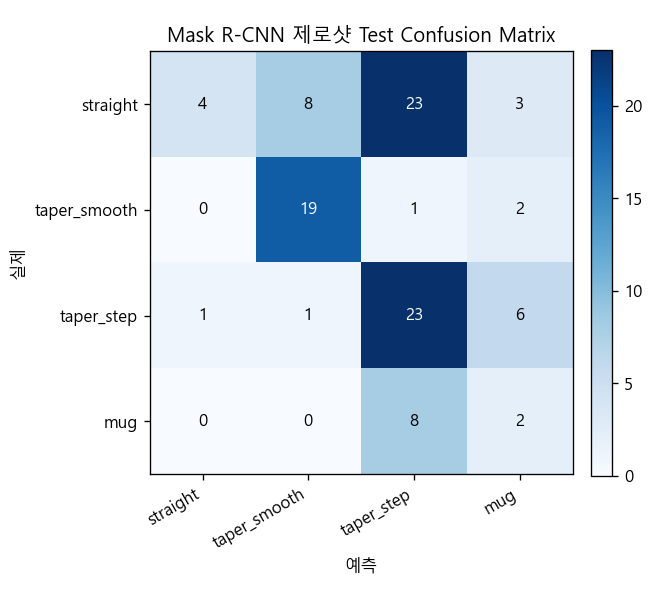
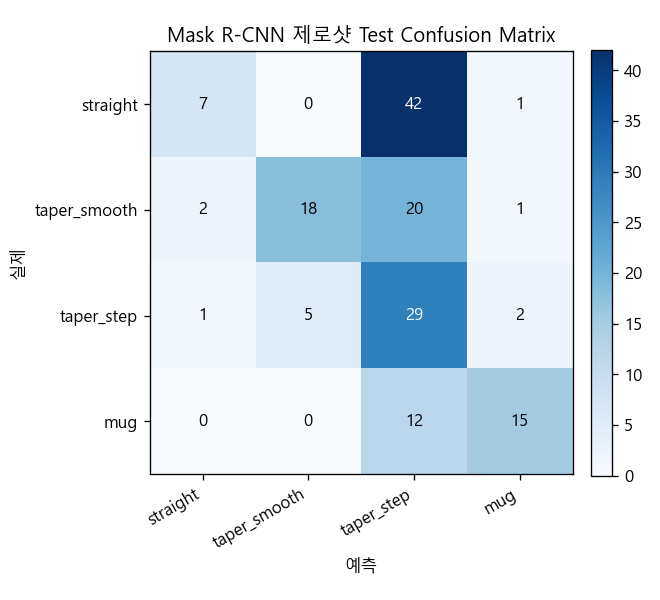
docs: Mask R-CNN 제로샷/파인튜닝을 data/test1(검수된 158장)로 재평가
제로샷 43.7%(Macro-F1 0.466), 파인튜닝 36.7%(Macro-F1 0.351). 파인튜닝이
data/test(104장) 기준 15.4%에서 크게 올랐는데, 룰베이스와 공유하는
compute_width_profile() 수정(손잡이-몸통 분리) 효과가 일부 반영된 것으로
보임. 그래도 여전히 제로샷보다 낮아 "파인튜닝 실사용 안 함" 결론 유지.

Claude-Session: https://claude.ai/code/session_017RchT2YestydpNo3gmGA3i

diff --git a/docs/experiment-log.md b/docs/experiment-log.md
@@ -50,6 +50,8 @@
 | 2026-09-15 | Claude | 룰베이스 마스크를 pseudo-label 삼아 fine-tuning 시도 (배경/텀블러 2클래스, 평가용 40장은 학습에서 제외, `classify_shape()`가 폴더 라벨과 맞은 것만 채택) — `notebooks/maskrcnn_finetune_rulebase_pseudolabels.ipynb`. 학습 266장(3 epoch, 1197s, loss 0.376→0.140), GPU RTX 4050 | 동일 40장(held-out) 재평가: 78%(31/40) | - | **제로샷(85%)보다 오히려 나빠짐(78%) — 우려했던 리스크가 실제로 발생.** straight 100→80%, taper_smooth 70→60%, taper_step 80→70% 전부 회귀, mug만 90→100%(가장 많이 채택된 클래스라 치우침 발생). 원인: (1) 클래스별 pseudo-label 채택 수가 심하게 불균형(mug 88 / straight 81 / taper_smooth 64 / **taper_step 33** — 룰베이스가 약한 클래스일수록 채택 수도 적어져서 학습 데이터가 mug 쪽으로 편향), (2) 룰베이스 마스크의 거친 경계가 COCO 학습으로 얻은 정밀한 마스크 품질을 깎아먹은 것으로 추정. **결론: 이 체크포인트는 폐기, dl1 트랙은 제로샷 버전(`segment.py`의 기본 `load_model()`)을 계속 사용.** 체크포인트는 `checkpoints/maskrcnn_finetuned_rulebase_pseudolabels.pth`에 남겨두되 실사용 안 함(참고 기록용) |
 | 2026-09-15 | Claude | 위 파인튜닝 체크포인트를 폐기하지 않고 `data/test`(실제 촬영 104장)에서 제로샷과 직접 비교 — `src/deep_learning/dl1_maskrcnn/evaluate_test.py` | - | **제로샷 46.2%(48/104) vs 파인튜닝 15.4%(16/104)** | **raw2(85%→78%)보다 실제 Test에서 훨씬 더 크게 무너짐(3배 차이).** Confusion matrix 확인: 파인튜닝 모델이 거의 전부 "mug"로만 예측(straight 24/38, taper_smooth 19/22, taper_step 26/34가 mug로 쏠림) — 학습 데이터의 mug 편향(위 항목 참고)이 domain shift 상황에서 더 극단적으로 드러남(class collapse). **파인튜닝을 다시 시도해볼 이유가 없다는 결론을 재확인** — 진짜 마스크 정답 없이는 근본적으로 개선 안 됨. 그래프: `reports/figures/maskrcnn/{zeroshot,finetuned}_test_confusion_matrix.png` |
 
+| 2026-09-16 | Claude | 사용자가 직접 검수한 `data/test1`(158장)로 제로샷 vs 파인튜닝 재비교 — 룰베이스와 공유하는 `compute_width_profile()` 수정(9/16, 손잡이-몸통 분리 방식) 효과가 이 트랙에도 반영되는지 확인 겸 | - | **제로샷 43.7%(69/158, Macro-F1 0.466) vs 파인튜닝 36.7%(58/158, Macro-F1 0.351)** | 파인튜닝이 `data/test`(104장) 기준 15.4%에서 36.7%로 크게 올라감 — 공유 폭 계산 수정 효과가 일부 반영된 것으로 보임(class collapse가 다소 완화). 제로샷은 46.2%→43.7%로 소폭 하락(테스트셋 차이, 큰 의미 없는 변동). **여전히 파인튜닝 < 제로샷이라 "파인튜닝 실사용 안 함" 결론은 그대로 유지** |
+
 ## ResNet-18/50 (`src/deep_learning/dl2_resnet/`)
 
 | 날짜 | 담당자 | 변경 사항 | Val 정확도 | Test 정확도 | 비고 |
